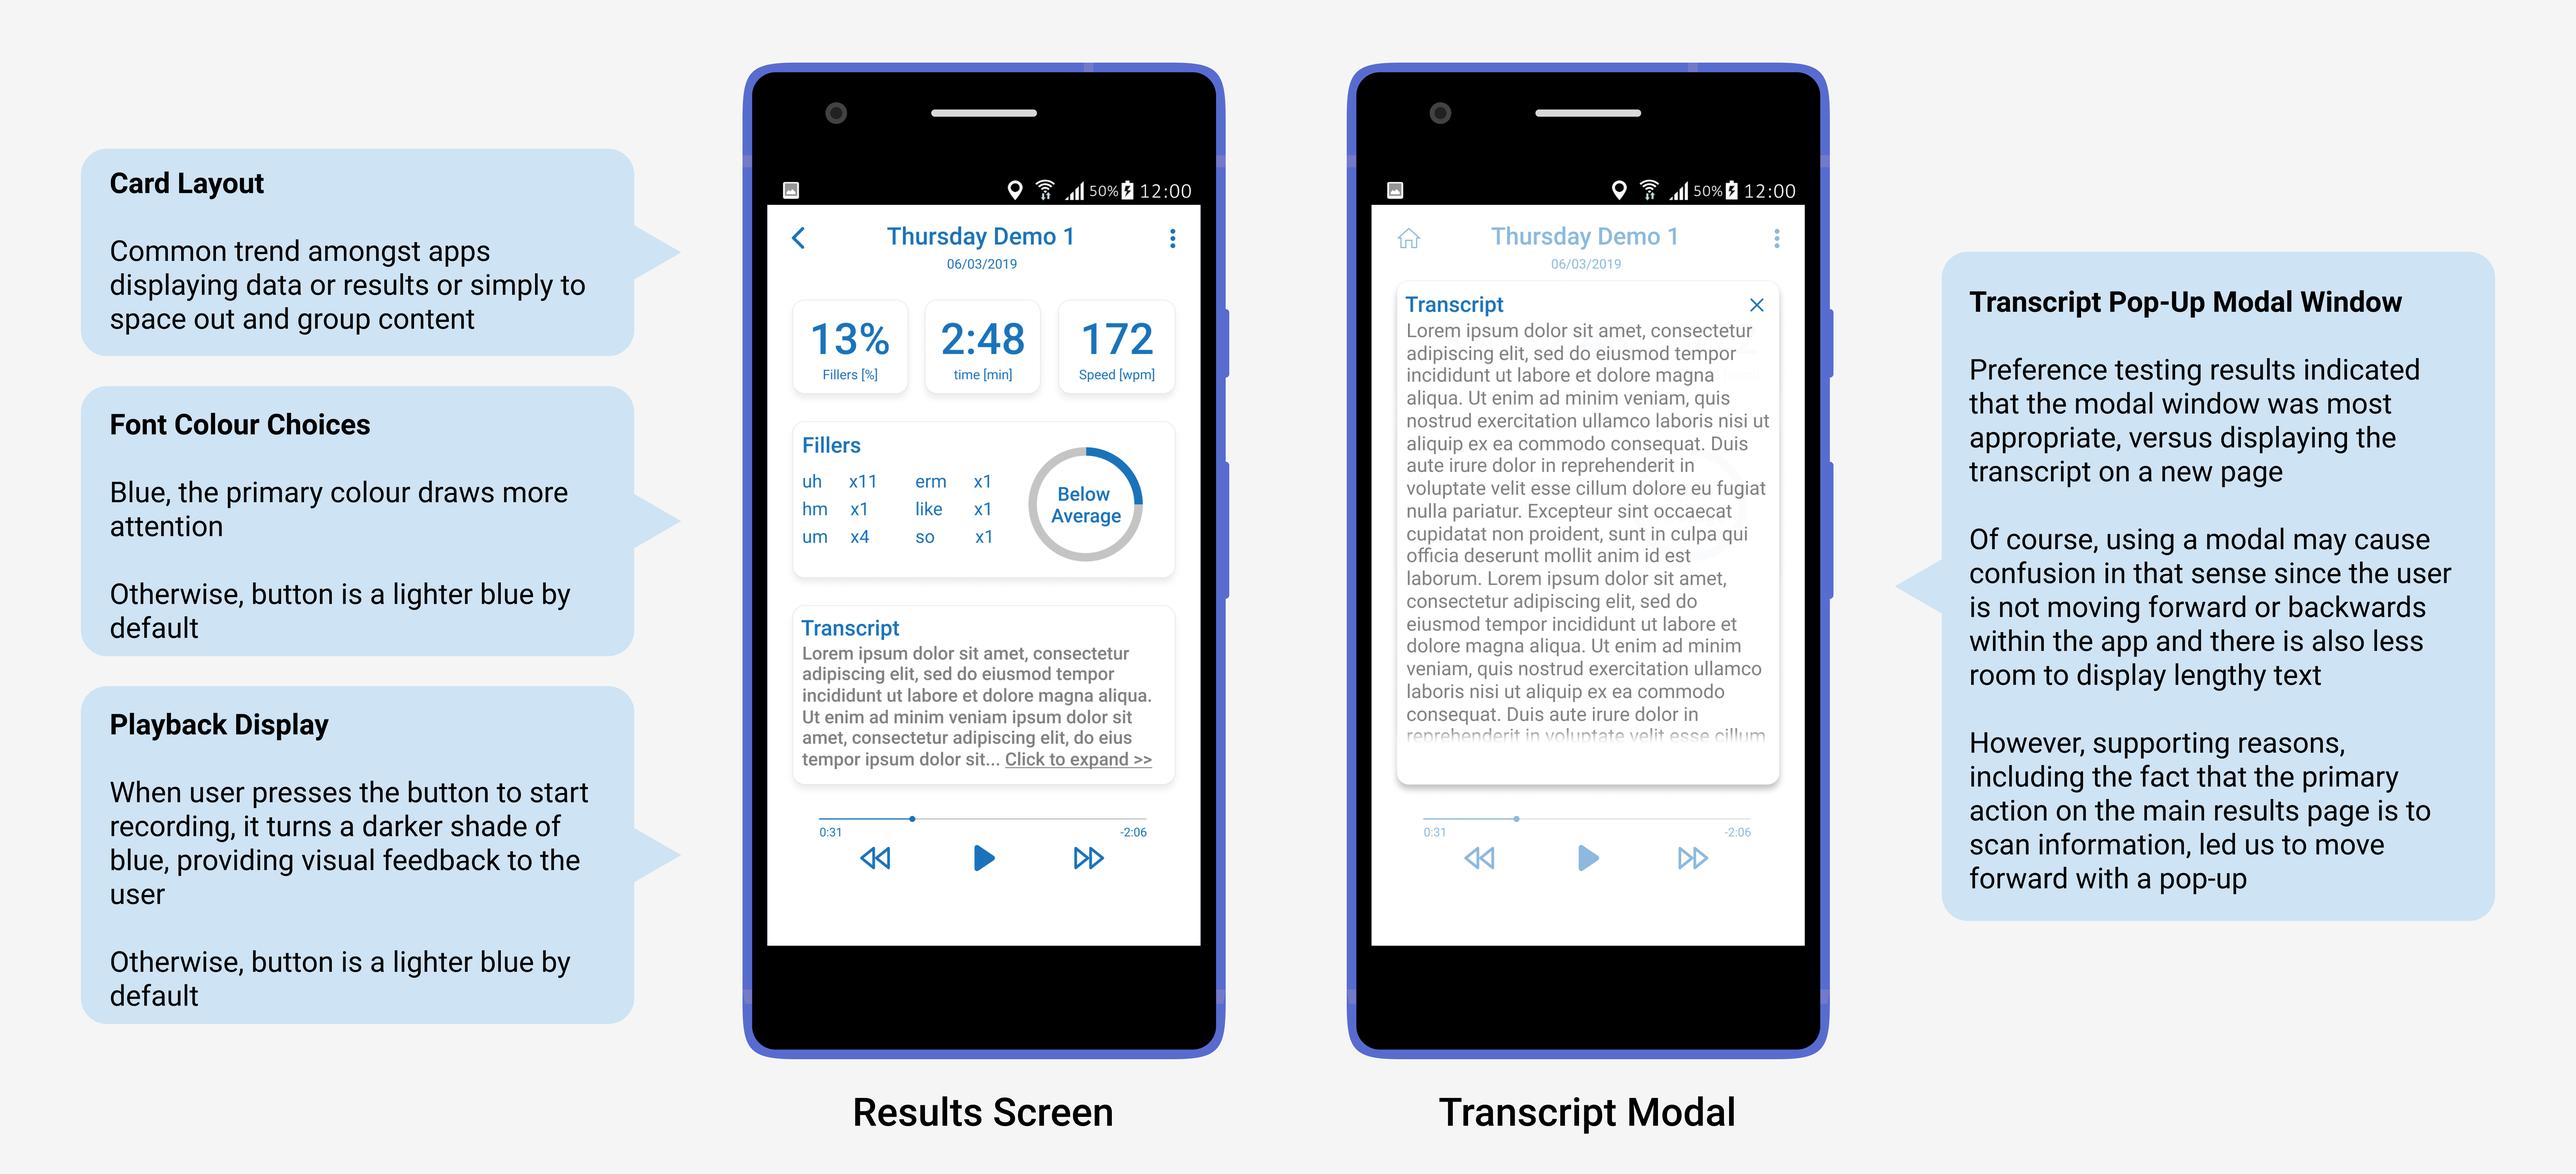
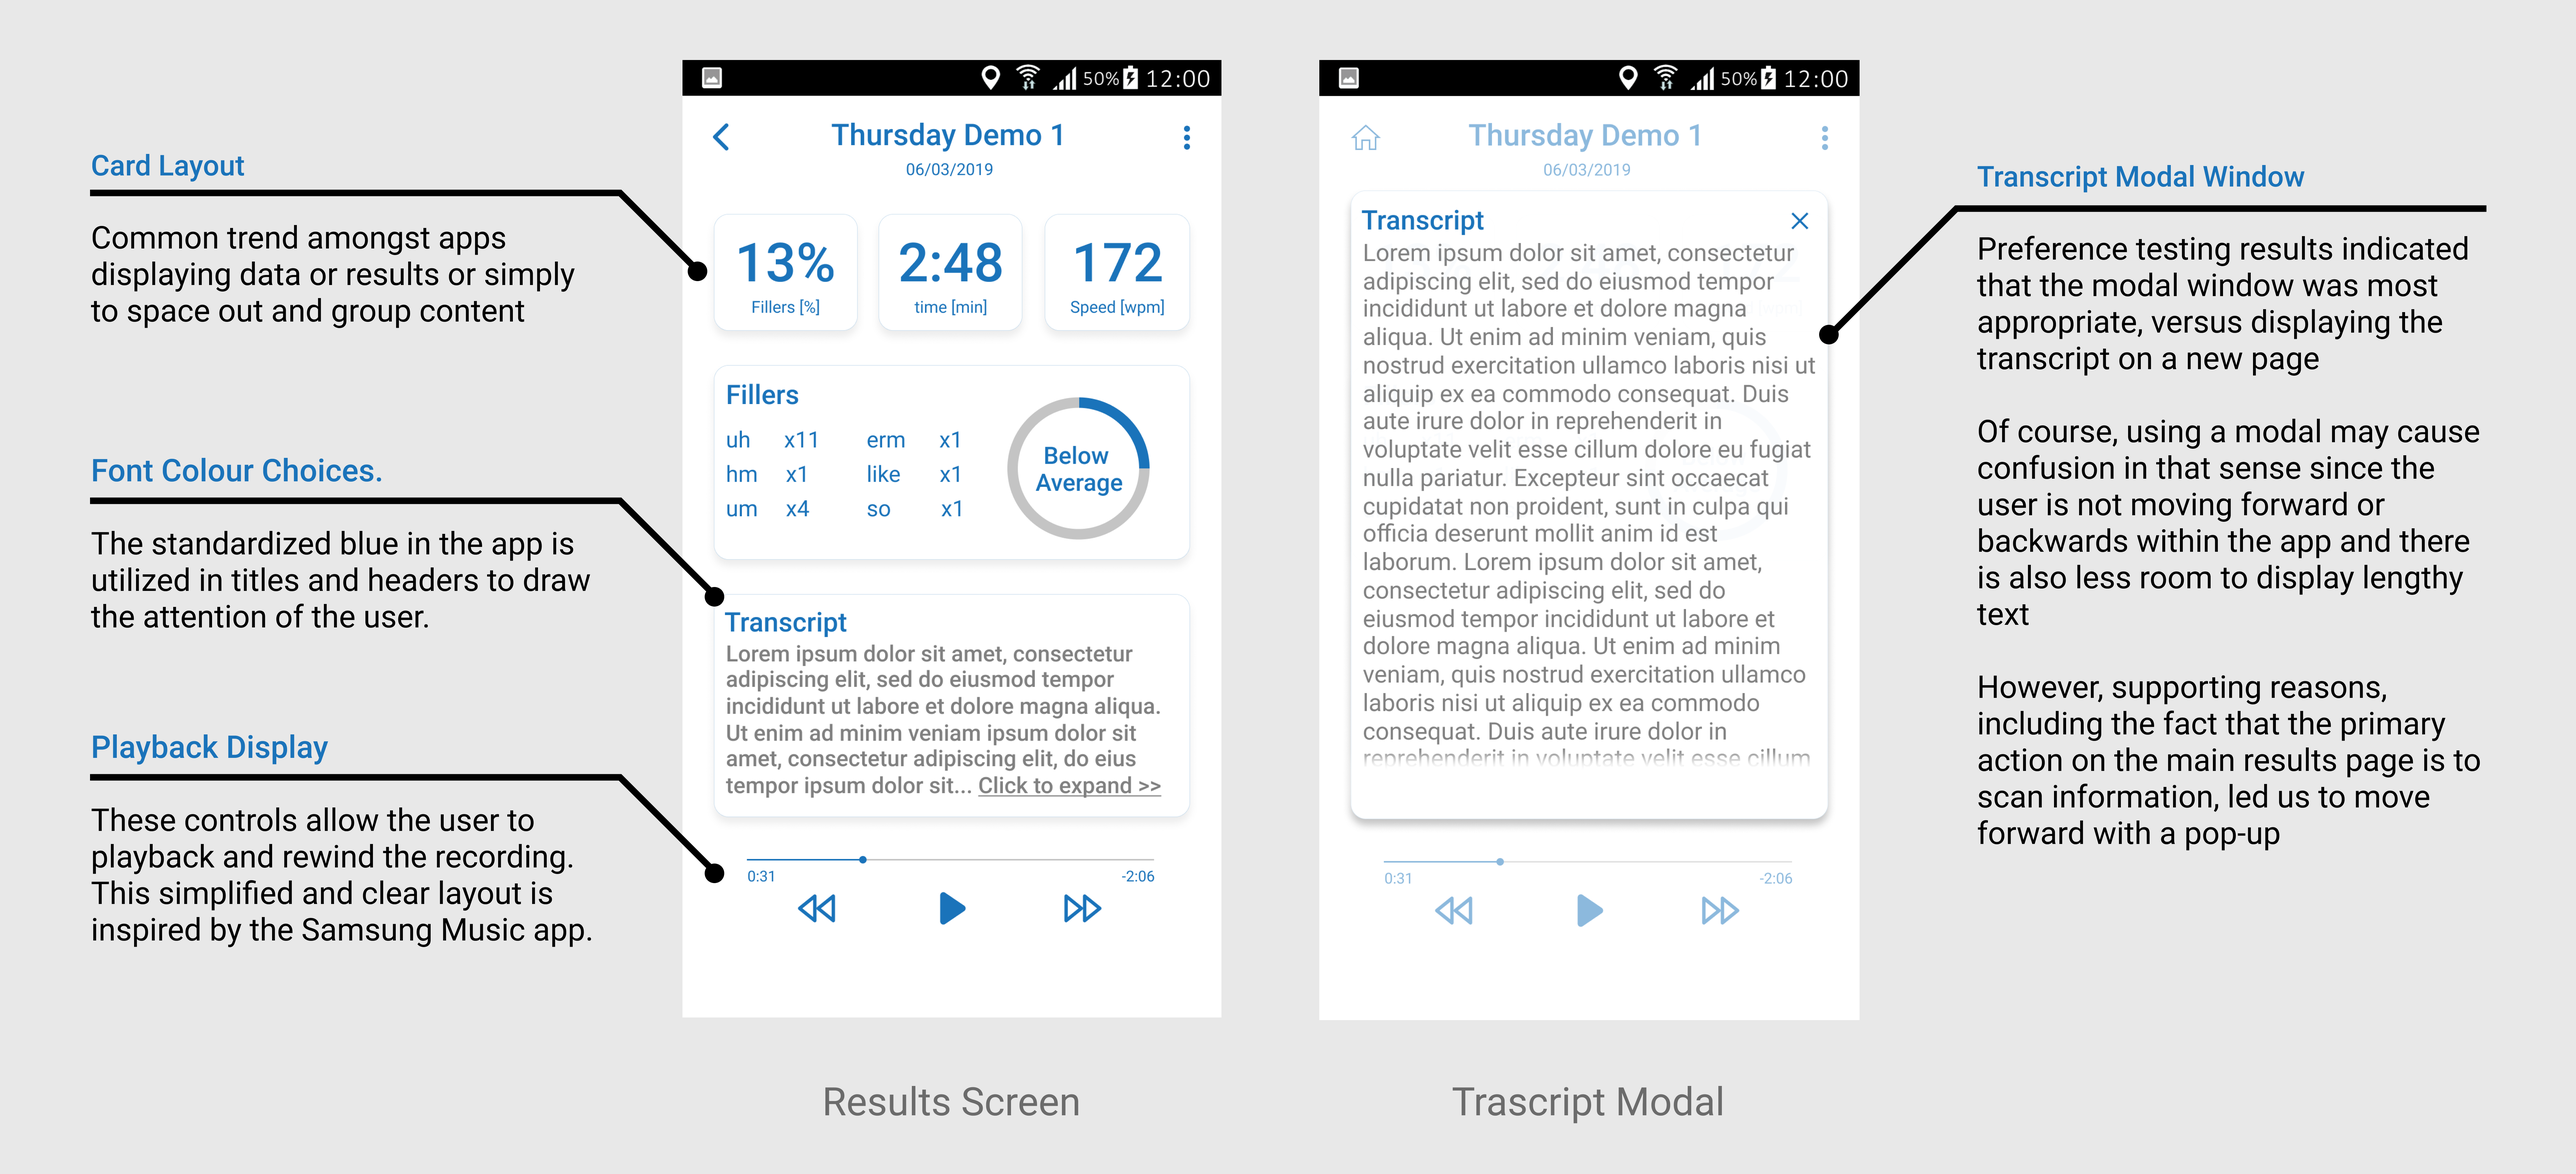
project voice visual updates

diff --git a/ProjectVoice.html b/ProjectVoice.html
@@ -335,6 +335,33 @@
         </header>
     </section>
 
+
+    <!-- Visual Style Guide -->
+    <section id="Goals" class="animated fadeIn" style="padding-bottom: 3%">
+        <header class="py-3 mb-2">
+    
+            <div class="container h-100 col-12 col-lg-8">
+                <div class="row h-100 justify-content-center">
+                    <div class="col-lg-12">
+                        <div class="header-container">
+                            <h3 class="mt-3 mb-2 intro-text" style="font-weight:450; line-height: 50px;">
+                                <span>Style Guide</span></h3>
+    
+                            <p class="lead intro-text">
+                                To ensure the visual design of the application was visually consistent, I established a fixed set of type and
+                                colours. At the time, spacing had not been on our minds but is definitely something to revisit in the future.
+                            </p><br>
+    
+                            <img src="img/PrjVoice/style-guide.png"><br>
+    
+                        </div>
+                    </div>
+                </div>
+            </div>
+        </header>
+    </section>
+
+
     <!-- What we made -->
     <section id="Product" class="animated fadeIn" style="padding-bottom: 3%">
         <header class="py-3 mb-2">
@@ -406,7 +433,7 @@
     
                             <p class="lead intro-text">
                                 <b style="color:#007bff">Past Recordings / History</b> </br>
-                                Past Recordings are found under a separate tab with date and name information, key details noted by our interviewees
+                                Past Recordings are found under a separate tab with date and name information, which are the key details interviewees wanted to see to help them differentiate between recordings.
                             </p><br>
 
                             <div>
